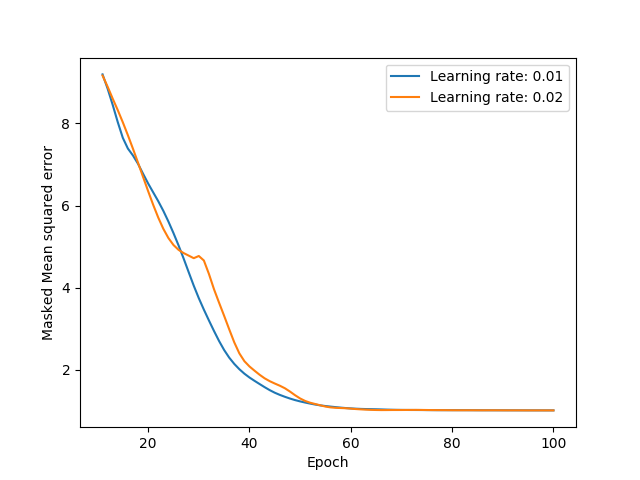
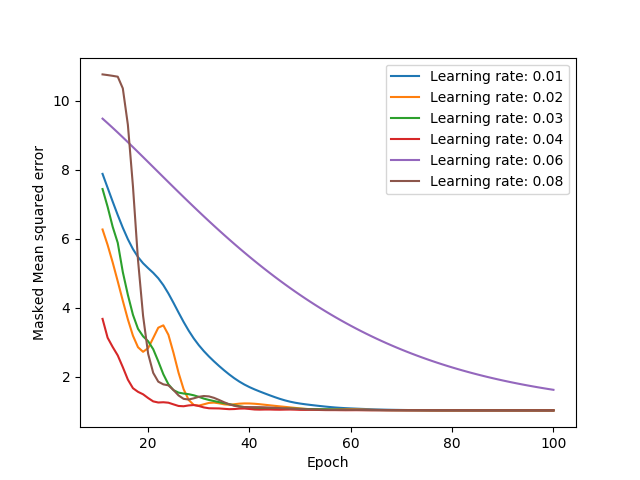
Added experiments

diff --git a/stackedAutoencoders.py b/stackedAutoencoders.py
@@ -280,10 +280,10 @@ def test(model, loss_function):
 def plot_images(plot_data, labels, xlabel, ylabel, filename):
     refined_data = []
     for data in plot_data:
-        refined_data.append(list(filter(lambda x: x[1] < 5.0, data)))
+        refined_data.append(list(filter(lambda x: x[1] < 10, data)))
 
     plt.clf()
-    for data, label in zip(plot_data, labels):
+    for data, label in zip(refined_data, labels):
         xs = [x[0] for x in data]
         ys = [y[1] for y in data]
         plt.plot(xs, ys, label=label)
